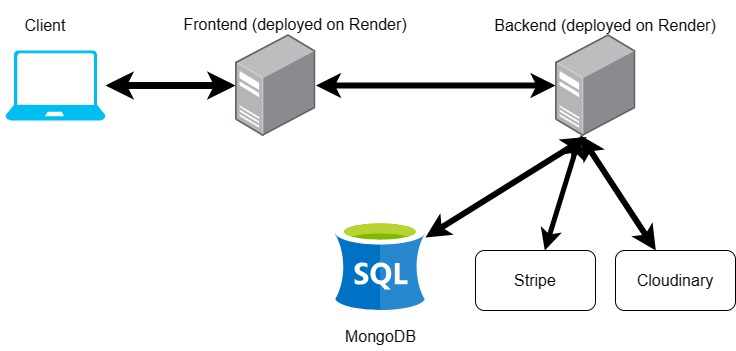
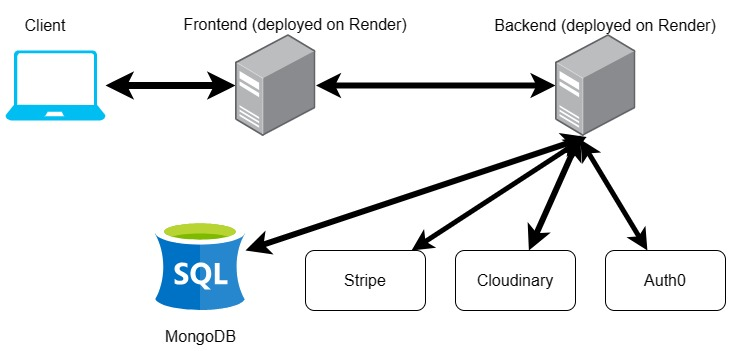
update readme

diff --git a/README.md b/README.md
@@ -22,7 +22,7 @@ https://restaurant-ordering-app-frontend.onrender.com/
 Render - Deploy frontend static web and backend server
 Stripe - Support test checkout 
 Cloudinary - Storing images
-
+Auth0 - Support Authentication (tokens)
 
 ## FullStack Website Structure
 ![](./readme_assets/food-ordering-app-fullstack-structure.jpg)
